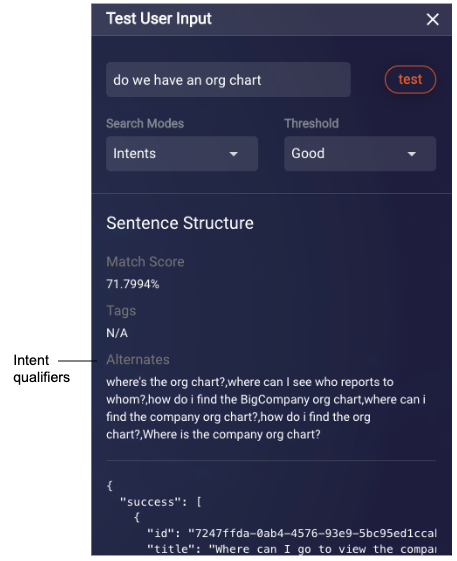
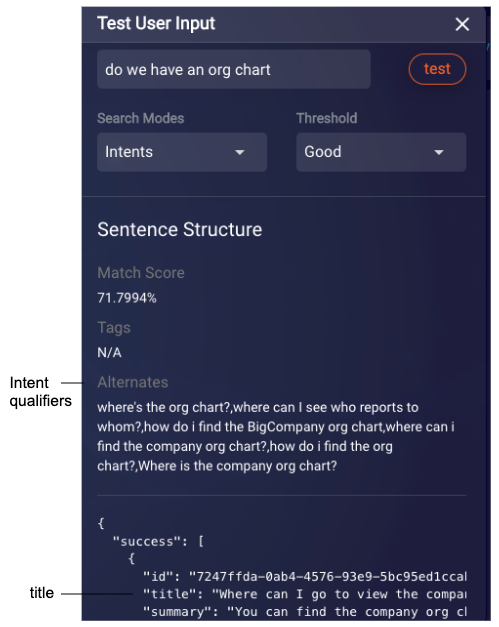
BA-3363 copy edits

diff --git a/pages/documents/ConversationalAI/KnowledgeBase/knowledgeBases.md b/pages/documents/ConversationalAI/KnowledgeBase/knowledgeBases.md
@@ -37,23 +37,23 @@ If you want to import a set of articles into a knowledge base when you add the k
 **To create an import file**
 
 1. Create a new CSV file or Google sheet.
-2. Add the column headers listed below; use the order listed.
-3. Fill out the rows with your article data. It's recommended that you complete at least these columns: tags, title, summary, detail, and alternates (if using Knowledge Base intents) or intentName (if using Domain intents).
+2. Add the column headers listed below; use the order listed in the table below.
+3. Fill out the rows with your article data. It's recommended that you complete at least these columns: title, summary, detail, tags, and alternates (if using Knowledge Base intents) or intentName (if using Domain intents).
 
 #### Column headers
 
 | Column header name | Description |
 |-----|-----|
 | id | An integer; usually just the row index, e.g., 1, 2, 3. <br><br>**Note**: This column isn't required when you initially create the knowledge base. However, if you're using a Google sheet that you plan to sync periodically, it does play a role then. Before performing a sync, update the Google sheet to include the "id" column and enter the IDs for all existing articles. |
-| tags | A comma-separated list of relevant keywords. |
-| title | The article title. This should be a complete sentence or question that the user might ask. |
+| tags | A comma-separated list of relevant keywords. These highlight the key noun(s) or word(s) in the training phrases. For example, for an article about health insurance, the tags should be "health", “insurance”, “benefits”. These should be words, not sentences. |
+| title | The article title. This should be a complete sentence or question that the user might ask. See [here](knowledge-base-articles.html#best-practices) for best practices. |
 | summary | A short response or message to be sent to the user. You can include web links, although depending on the channel they might not display correctly. For SMS/Messaging, you might need to show the URL by itself, not wrapped in HTML, since the HTML will be sent as plain text over these channels. |
-| alternates | Applicable if you're using Knowledge Base intents, not Domain intents (see [here](knowledge-base-overview.html#knowlege-base-intents-versus-domain-intents) for an understanding of the two). In the UI, these are called "intent qualifiers." Intent qualifiers are alternative ways that people ask for the article, i.e., alternative ways to communicate the same intent. |
+| alternates | Applicable if you're using Knowledge Base intents, not Domain intents (see [here](knowledge-base-overview.html#knowlege-base-intents-versus-domain-intents) for an understanding of the two). In the UI, these are called "intent qualifiers." Intent qualifiers are alternative ways that people ask for the article, i.e., alternative ways to communicate the same intent. See [here](knowledge-base-articles.html#best-practices) for best practices. |
 | detail | A longer message to the user. For messaging, it's recommended that you keep the responses as brief as possible. |
-| content_url | The URL of the hyperlink to send to the user. For more on this, see [here](knowledge-base-articles.html#add-content-links). |
-| image_url | The URL of the image to send to the user. For more on this, see [here](knowledge-base-articles.html#add-content-links). |
-| audio_url | The URL of the audio file to send to the user. For more on this, see [here](knowledge-base-articles.html#add-content-links). |
-| video_url | The URL of the video file to send to the user. For more on this, see [here](knowledge-base-articles.html#add-content-links). |
+| content_url | The URL of a hyperlink. For more on this, see [here](knowledge-base-articles.html#add-content-links). |
+| image_url | The URL of an image. For more on this, see [here](knowledge-base-articles.html#add-content-links). |
+| audio_url | The URL of an audio file. For more on this, see [here](knowledge-base-articles.html#add-content-links). |
+| video_url | The URL of a video file. For more on this, see [here](knowledge-base-articles.html#add-content-links). |
 | followupQuestion | Deprecated. |
 | quickReplies | Deprecated. |
 | inputContext | Deprecated. |
@@ -71,26 +71,26 @@ If you want to import a set of articles into a knowledge base when you add the k
 1. Open the knowledge base, and click <img style="width:25px" src="img/ConvoBuilder/icon_kb_settings.png"> (Knowledge Base Menu icon) in the lower-right corner.
 2. In the Settings panel, click **KB Settings**.
 3. Specify the following:
-    * **Data source name**: Enter a new name for the knowledge base if desired. Changing the name of the knowledge base doesn't require a corresponding update to a [knowledge base integration](conversation-builder-integrations-knowledge-base-integrations.html) that uses the knowledge base; the integration is tied to the knowledge base's primary key, not its name. 
+    * **Data source name**: Enter a new name for the knowledge base if desired. Changing the name of the knowledge base doesn't require a corresponding update to a [knowledge base integration](conversation-builder-integrations-knowledge-base-integrations.html) that uses the knowledge base; the integration is tied to the knowledge base's underlying primary key, not its name. 
     * **Data source type**: Read-only.
     * **Language**: Change the language if desired.
-    * **Import articles from**: After you've added a knowledge base, you can't subsequently import articles from a CSV file. However, you can link a Google sheet to the knowledge base though, but be aware that, once you [sync with the sheet](knowledge-base-knowledge-bases.html#sync-with-a-google-sheet), the contents of the knowledge base are overwritten with what's in the sheet.
+    * **Import articles from**: After you've added a knowledge base, you can't subsequently import articles from a CSV file. However, you can link a Google sheet to the knowledge base, but be aware that, once you [sync with the sheet](knowledge-base-knowledge-bases.html#sync-with-a-google-sheet), the contents of the knowledge base are overwritten with what's in the sheet.
     * **Knowledge Base ID**: Read-only. This is a unique identifier that’s generated by the system. In some scenarios, you might need to reference the knowledge base ID. Here’s where you can find it.
     * **Intent Association**: Read-only. If the knowledge base uses Knowledge Base intents, you can convert them to Domain intents.
     * **Associated Domain for Entity**: This field is only displayed if the knowledge base uses [Knowledge Base intents](knowledge-base-overview.html#knowlege-base-intents-versus-domain-intents). If desired, you can change the domain where the entities used in the knowledge base are defined.
-    * **Associated Domain**: Read-only. This field is only displayed if the knowledge base uses [Domain intents](knowledge-base-overview.html#knowlege-base-intents-versus-domain-intents). The domain can't be changed after the knowledge base is created.
+    * **Associated Domain**: Read-only. This field is displayed only if the knowledge base uses [Domain intents](knowledge-base-overview.html#knowlege-base-intents-versus-domain-intents). The domain can't be changed after the knowledge base is created.
     * **Account**: If you logged into Conversation Builder directly (i.e., not via single sign-on from LiveEngage) and you have access to multiple organizations within your LiveEngage account, you can use this setting to change the organization under which this knowledge base exists. If you logged into Conversation Builder via single sign-on from LiveEngage, the organization you were using in LiveEngage is active and can't be changed, and nothing appears in this list.
     * **Public**: If you don't want other users in your LiveEngage account to be able to view and edit the knowledge base, click the slider to Off. To facilitate the contributions of multiple persons to articles, the default value is On.
 4. Click **Update**.
 
 ### Convert Knowledge Base intents to Domain intents
 
-When you convert Knowledge Base intents to Domain intents, the system takes each article title in the knowledge base and creates an intent in Intent Builder in the domain that you specify. Additionally, all the intent qualifiers in the articles are converted to training phrases in Intent Builder for their respective intents.
+When you convert Knowledge Base intents to Domain intents, the system takes each article title in the knowledge base and creates an intent in Intent Builder in the domain that you specify. Additionally, all the intent qualifiers in the articles are converted to training phrases for their respective intents in Intent Builder.
 
 From a workflow perspective, the process of testing the knowledge base and adding/changing training phrases moves from the Knowledge Base application to the Intent Builder application.
 
 {: .important}
-Before taking this action, be certain about doing so. Once you convert the intents, you no longer see and can no longer use Knowledge Base intents in that specific knowledge base. Also, this action irreversibly modifies the domain that you select.
+Before taking this action, be certain about doing so. Once you convert the intents, you no longer see and can no longer use Knowledge Base intents in the affected knowledge base. Also, this action irreversibly modifies the domain that you select.
 
 **To convert from Knowledge Base intents to Domain intents**
 1. Open the knowledge base, and click <img style="width:25px" src="img/ConvoBuilder/icon_kb_settings.png"> (Knowledge Base Menu icon) in the lower-right corner.
@@ -103,10 +103,6 @@ Before taking this action, be certain about doing so. Once you convert the inten
     This converts the intents and associates the selected domain.
 
     <img class="fancyimage" style="width:750px" src="img/ConvoBuilder/kb_convertIntents.png">
-
-### Add stop words
-
-This feature is deprecated.
 
 ### Sync with a Google sheet
 

diff --git a/pages/documents/ConversationalAI/KnowledgeBase/knowledgeBaseArticles.md b/pages/documents/ConversationalAI/KnowledgeBase/knowledgeBaseArticles.md
@@ -11,7 +11,7 @@ indicator: both
 
 ### Add an article
 
-An article is a focused piece of content (a message) on a single topic that you want to serve to your consumers.
+An article is a focused piece of content (a message) on a single topic that you want to serve to consumers.
 
 <img class="fancyimage" style="width:750px" src="img/ConvoBuilder/kb_articles.png">
 
@@ -109,7 +109,7 @@ The Debugger tool works exactly like a [Knowledge Base integration](conversation
 3. Click **test**.
 
     In the results, you can examine the "title" in the JSON to see which article has been matched.
-    <img style="width:500px" src="img/ConvoBuilder/kb_testUserInput2.png">
+    <img style="width:450px" src="img/ConvoBuilder/kb_testUserInput2.png">
 
 ### Chat with a bot linked to a knowledge base
 
